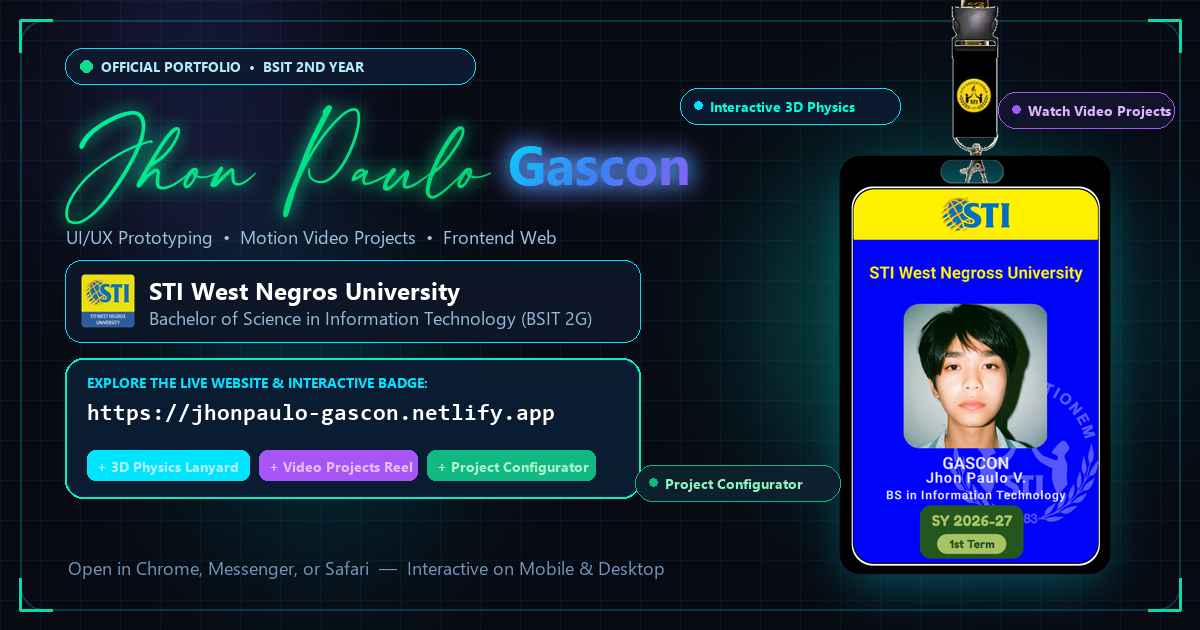
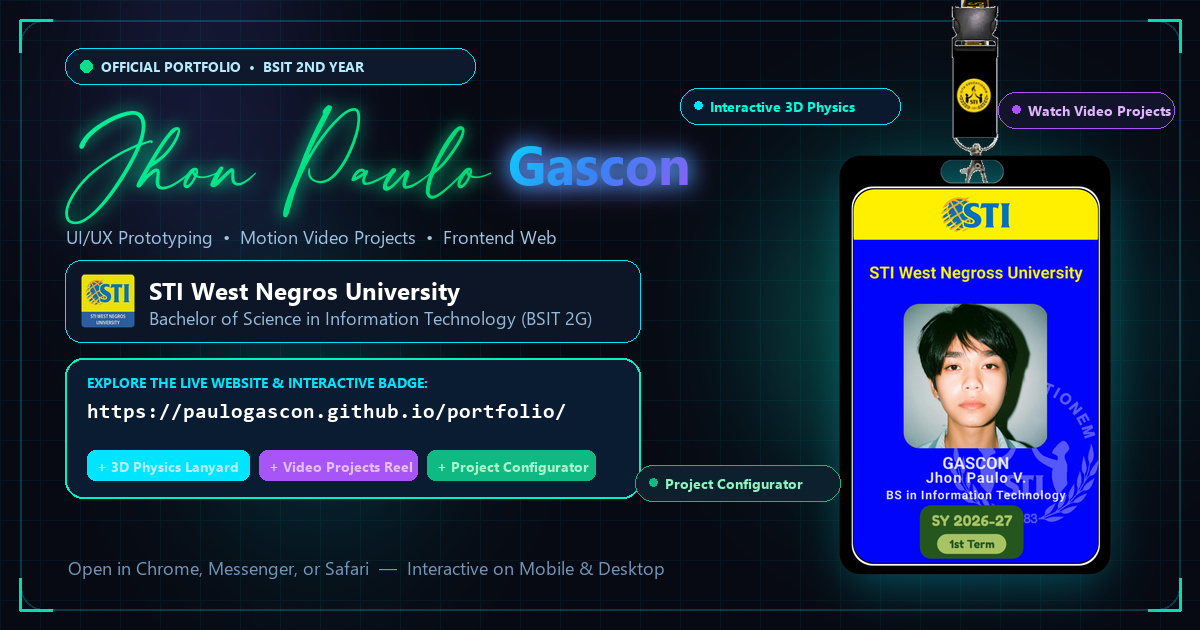
Update share thumbnail preview with official GitHub Pages URL

Changed region(s): [[0.0617, 0.6333, 0.4625, 0.6937]]

diff --git a/generate_thumbnail.py b/generate_thumbnail.py
@@ -62,7 +62,7 @@ font_gascon = ImageFont.truetype("segoeuib.ttf", 54)
 font_sans_large = ImageFont.truetype("segoeuib.ttf", 24)
 font_sans_regular = ImageFont.truetype("segoeui.ttf", 18)
 font_sans_small = ImageFont.truetype("segoeuib.ttf", 14)
-font_mono_bold = ImageFont.truetype("consolab.ttf", 23)
+font_mono_bold = ImageFont.truetype("consolab.ttf", 21)
 
 draw = ImageDraw.Draw(canvas)
 
@@ -215,7 +215,7 @@ draw.rounded_rectangle([url_card_x, url_card_y, url_card_x + url_card_w, url_car
 draw.text((url_card_x + 22, url_card_y + 14), "EXPLORE THE LIVE WEBSITE & INTERACTIVE BADGE:", fill=(0, 229, 255), font=font_sans_small)
 
 # URL string in bold monospace with neon glow
-url_text = "https://jhonpaulo-gascon.netlify.app"
+url_text = "https://paulogascon.github.io/portfolio/"
 draw.text((url_card_x + 22, url_card_y + 44), url_text, fill=(255, 255, 255), font=font_mono_bold)
 
 # Sub-feature Pills inside the URL box
